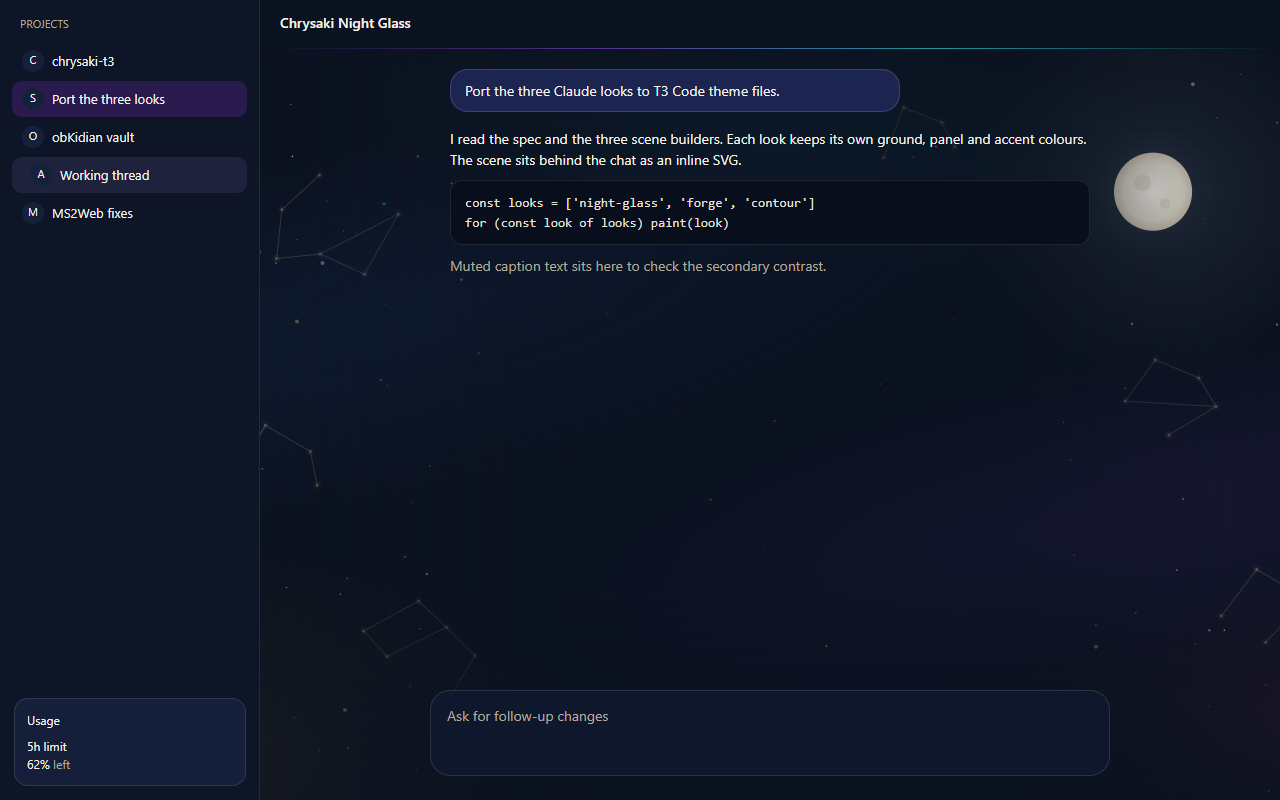
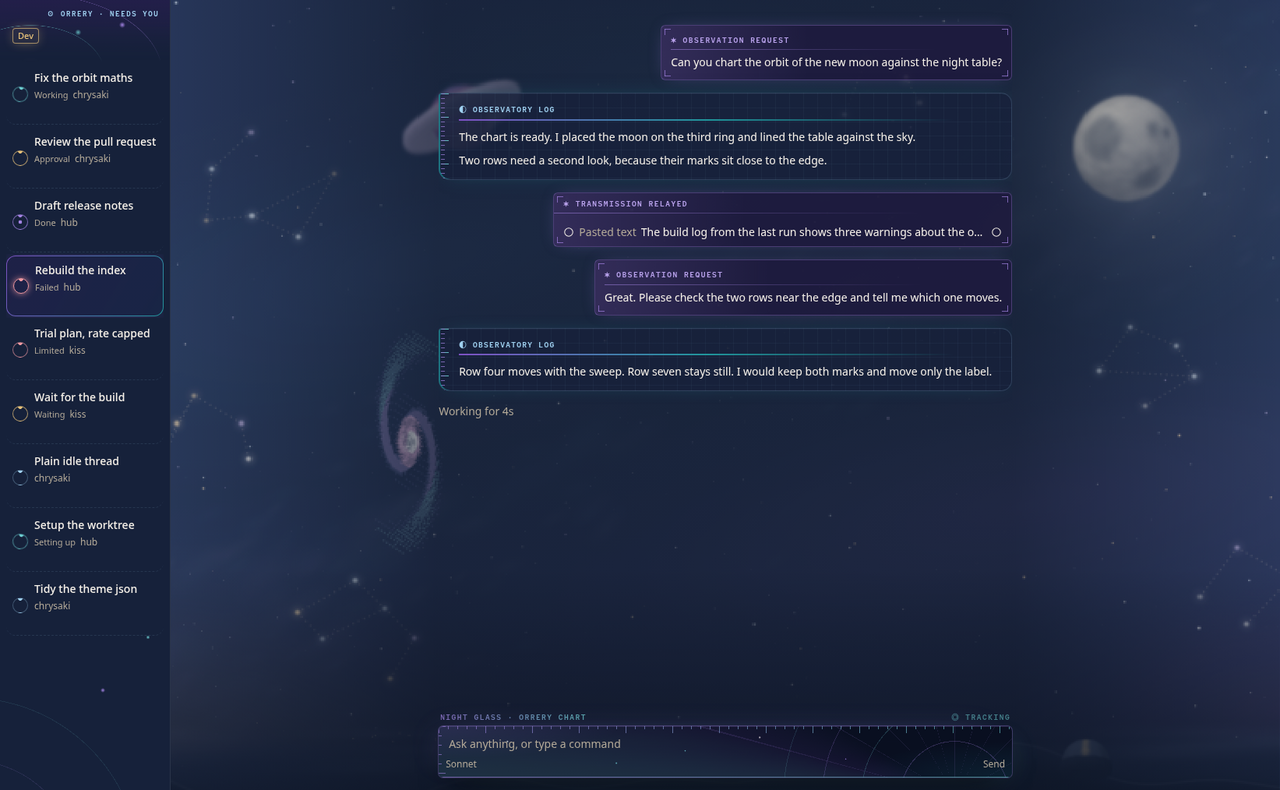
feat(themes): rebuild Night Glass as an observatory under an animated sky
The sky is an animated WebP beside the theme file: a galaxy, a ringed
planet, a moon and a comet, drawn as voxel sprite stacks in soft
Gaussian splats. The file is half size and lossless, and the theme
scales it with pixelated rendering.

The interface takes one look, in amethyst and teal:
- The sidebar is an orrery. The ring of each thread shows its status.
- The composer is a star chart. A sweep scans it while an agent works.
- Requests and replies carry observatory headings.
- The thread details card has graduated gauges.

The project scripts in t3.json now copy the image files too, because
`t3 theme set` copies only the theme file.

diff --git a/README.md b/README.md
@@ -9,7 +9,7 @@ T3 Code draws nothing that a Claude Code mod sends: no pane, no band, no toast a
 | [`themes/chrysaki.json`](themes/chrysaki.json) | The Chrysaki look for the T3 Code app: colours for each role, plus CSS for the header, the composer and the usage card |
 | [`themes/chrysaki-contour.json`](themes/chrysaki-contour.json) | A sea chart behind the chat, with sharks, boats and a sea serpent that move, and a chart that reacts to a press and to a hover |
 | [`themes/chrysaki-forge.json`](themes/chrysaki-forge.json) | A smithy in colour ASCII cell art: a hearth, a smith and a molten seam |
-| [`themes/chrysaki-night-glass.json`](themes/chrysaki-night-glass.json) | A night sky with a moon, constellations and a lantern glow |
+| [`themes/chrysaki-night-glass.json`](themes/chrysaki-night-glass.json) | An observatory under an animated night sky: a galaxy, a moon and a comet in soft voxel splats, an orrery sidebar and a star chart composer. The sky is the file `chrysaki-night-glass.webp` beside the theme |
 | [`t3.json`](t3.json) | Project scripts that install a theme and change the app to it |
 | [`mods/chrysaki-t3-stats`](mods/chrysaki-t3-stats/) | Writes the stats of each session to a file and serves one page with all sessions. The page replaces the statusline |
 
@@ -43,6 +43,10 @@ t3 theme set themes/chrysaki-contour.json
 ```
 
 The app keeps installed themes in `~/.t3/userdata/themes/`. A copy of a theme file into that folder also installs it.
+
+Night Glass also needs its sky, `themes/chrysaki-night-glass.webp`, in that folder. `t3 theme set` copies only the theme file. The project script **Theme: Chrysaki Night Glass** copies both.
+
+Contour sets its cards in a handwriting font of Windows or macOS. Linux has none of them, so the theme uses [Comic Neue](https://comicneue.com) there. Install it to `~/.local/share/fonts/`.
 
 The themes are dark only. Chrysaki has no light palette.
 
